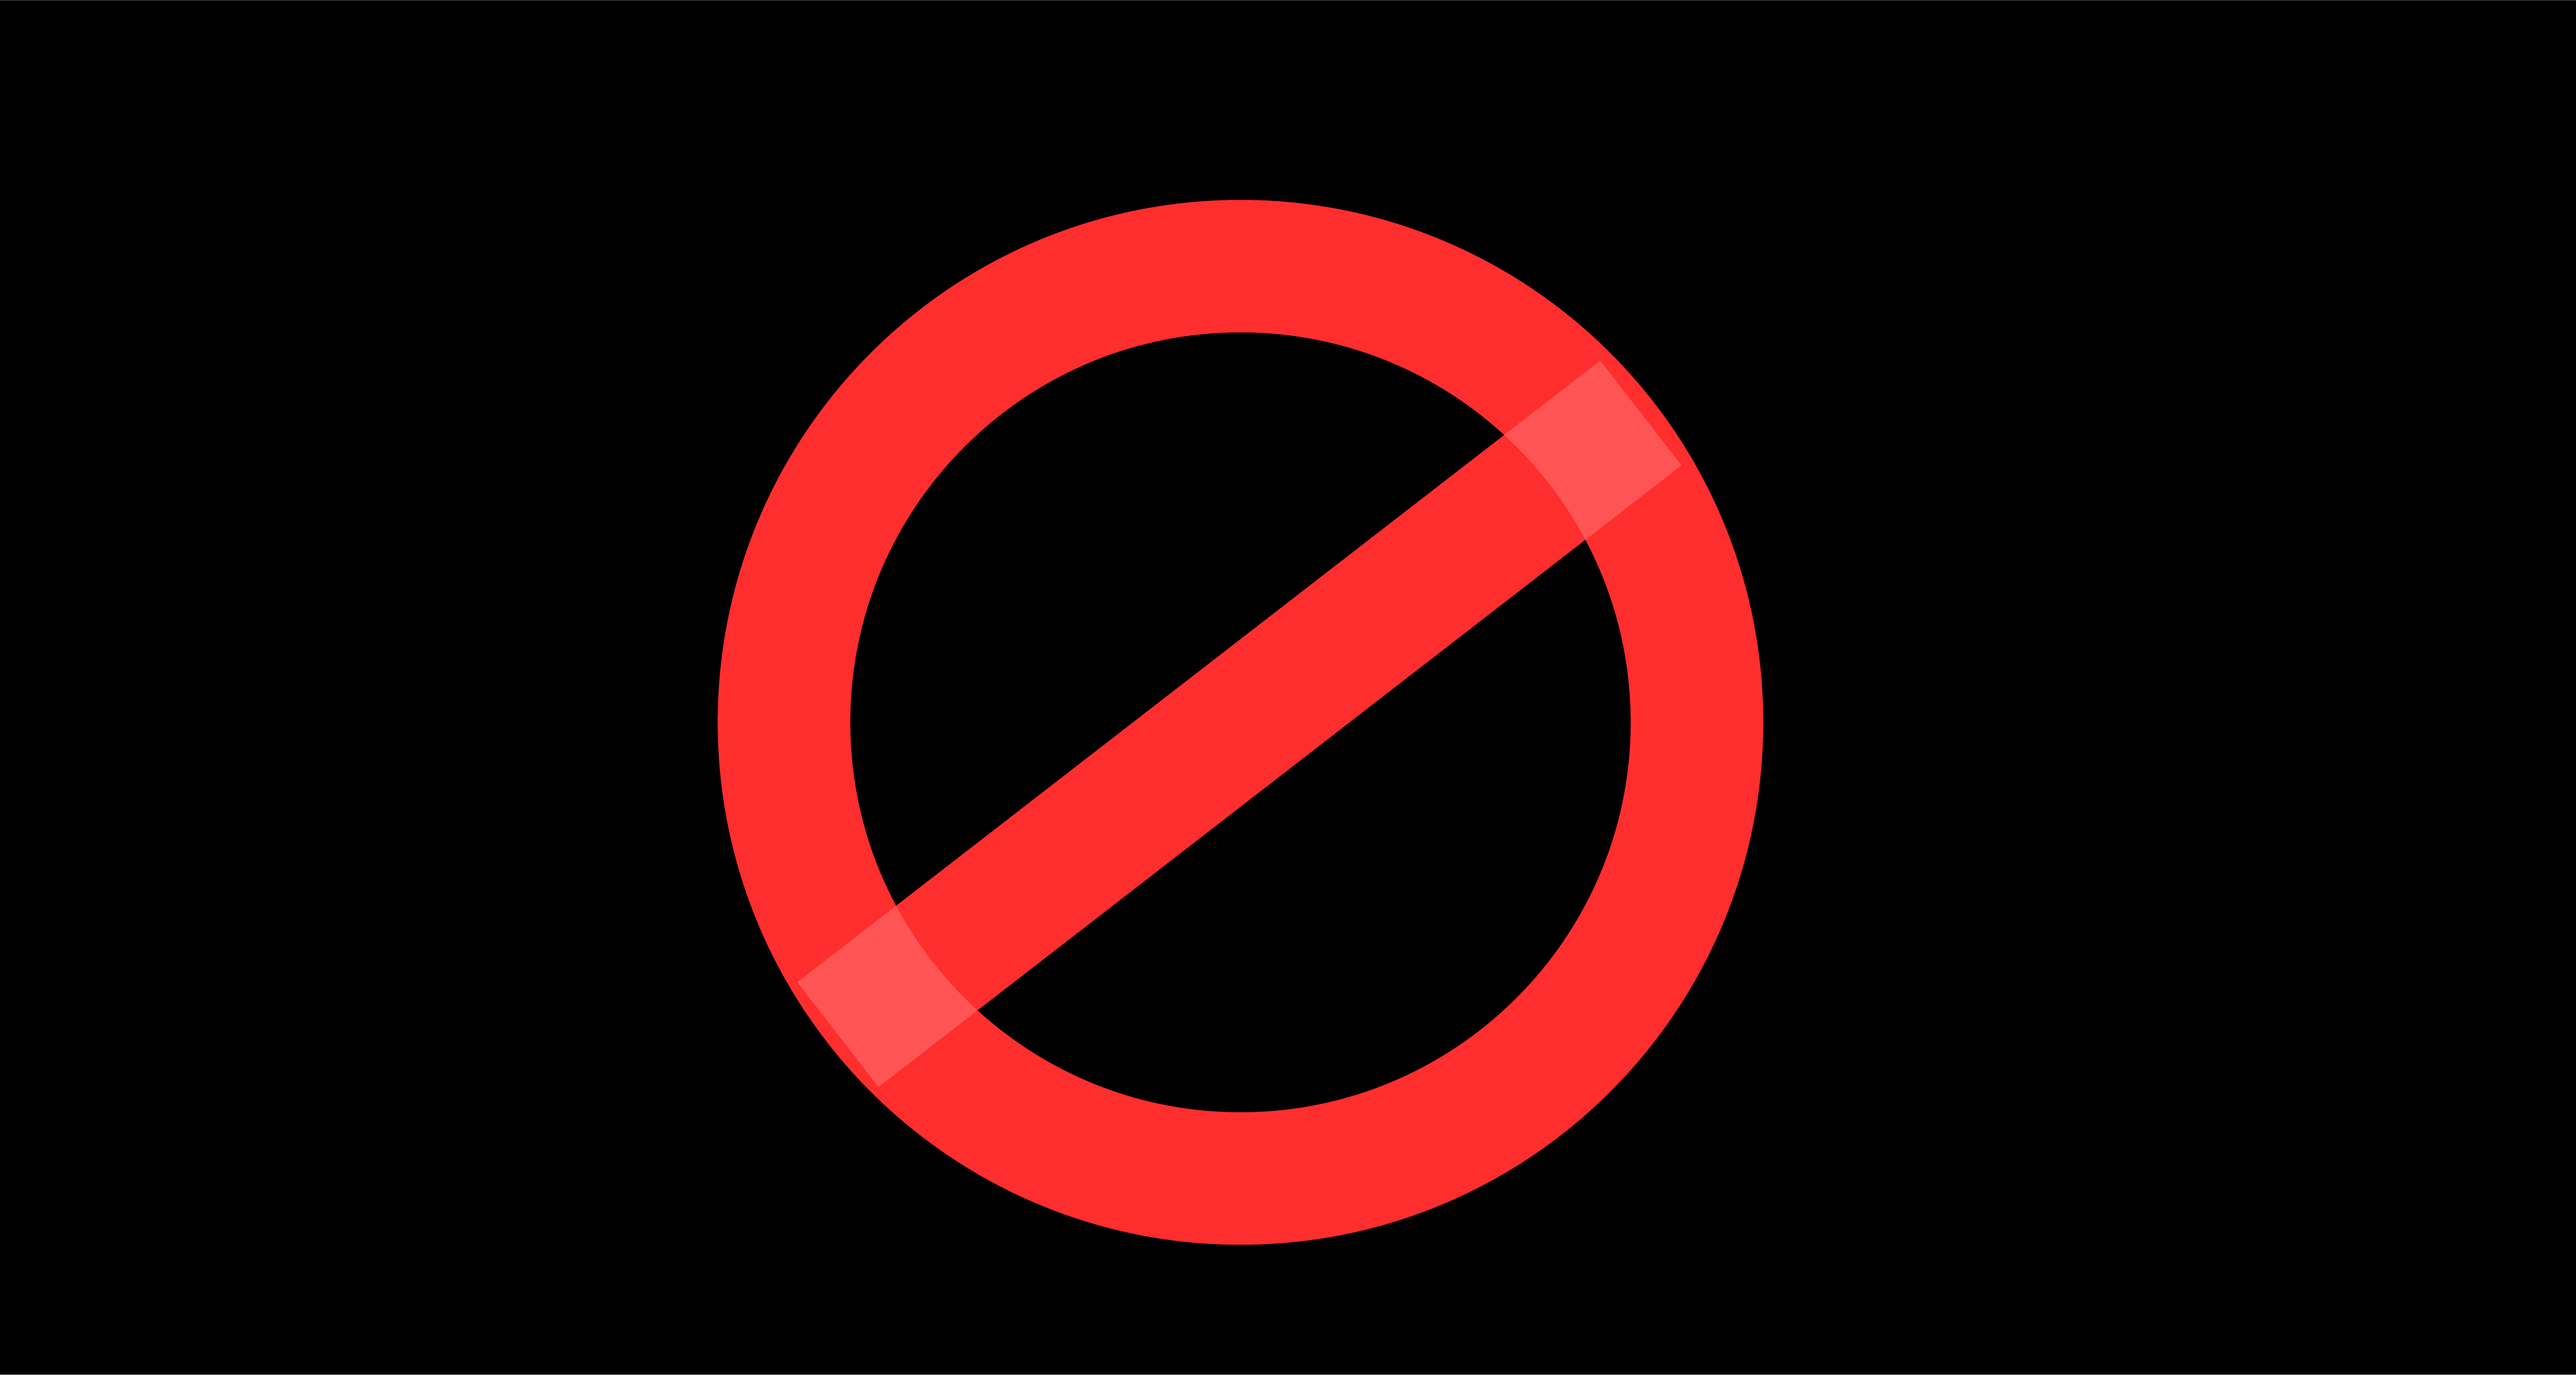
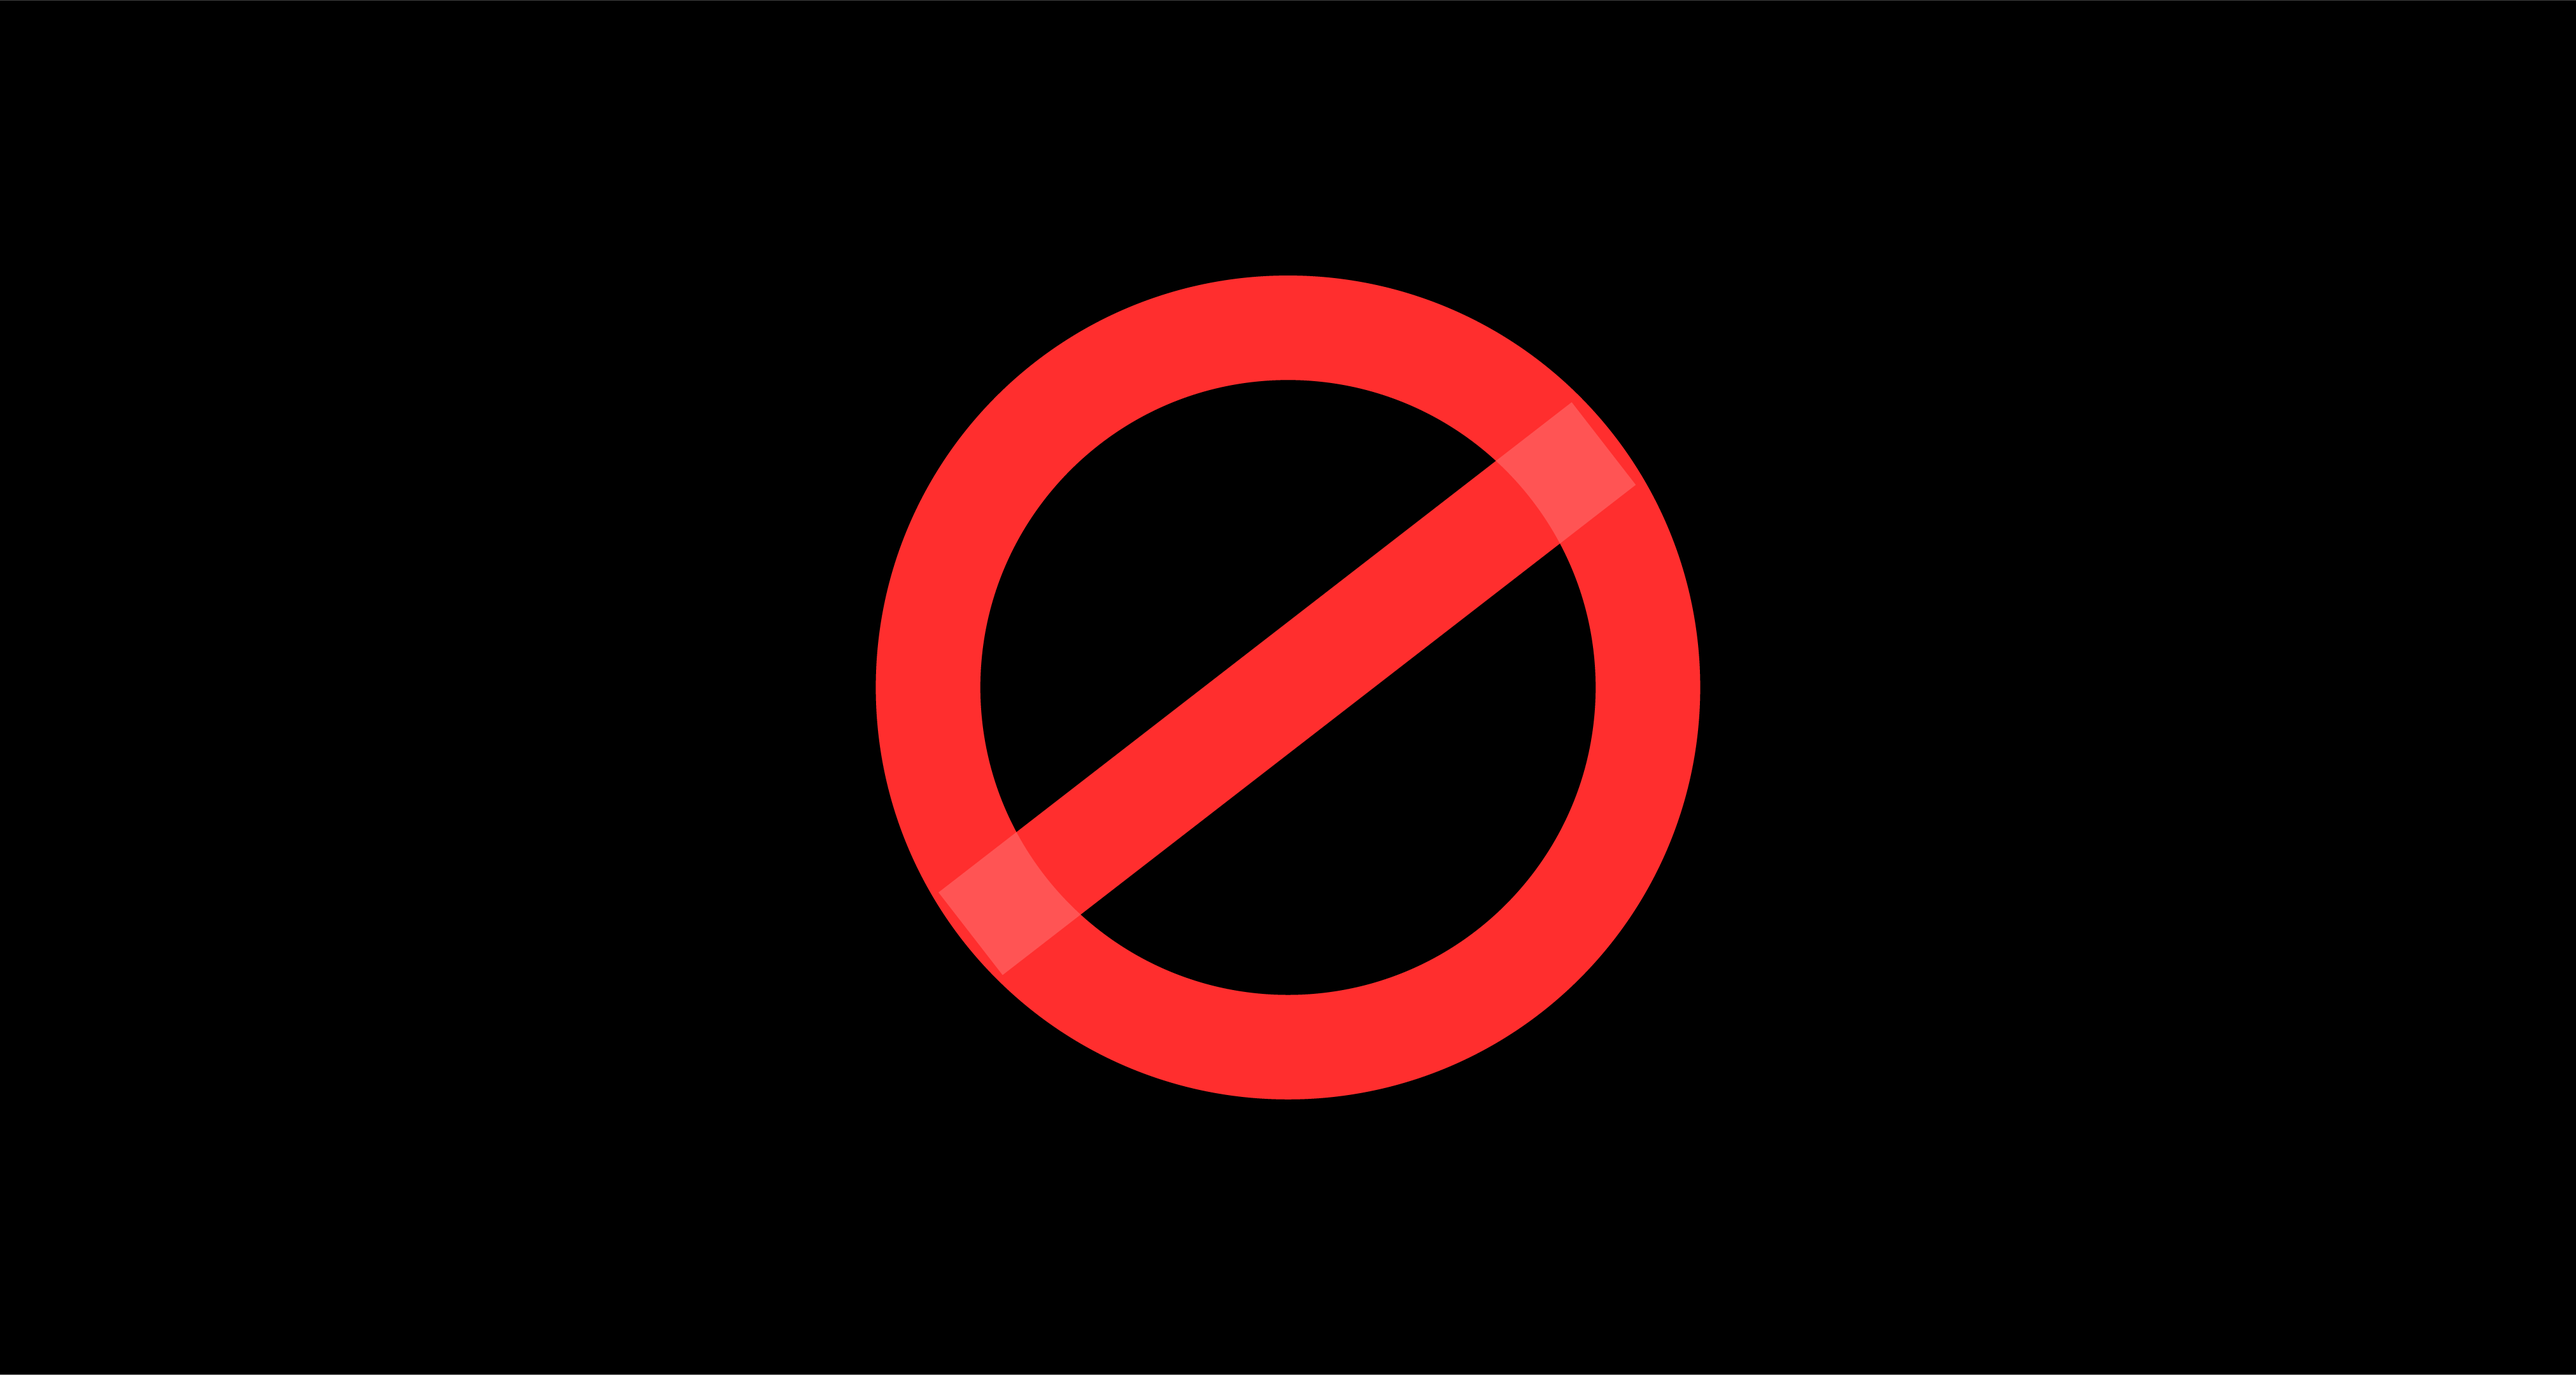
画像の切り替えを確実に実行

diff --git a/src/App.vue b/src/App.vue
@@ -31,7 +31,7 @@ const blueEffectList = ref<Effect[]>([
   },
   {
     index: 3,
-    name: 'Psychedelic effect',
+    name: 'Psychedelic',
     imageUrl: '/blue/psychedelic_effect.png',
   },
   {
@@ -80,8 +80,8 @@ const yellowEffectList = ref<Effect[]>([
   },
   {
     index: 3,
-    name: 'Yellow Effect 4',
-    imageUrl: 'https://via.placeholder.com/200x150/ffeb3b/000000?text=Yellow+4',
+    name: 'Psychedelic',
+    imageUrl: '/yellow/psychedelic_effect.png',
   },
   {
     index: 4,
@@ -129,7 +129,7 @@ const redEffectList = ref<Effect[]>([
   },
   {
     index: 3,
-    name: 'Psychedelic effect',
+    name: 'Psychedelic',
     imageUrl: '/red/psychedelic_effect.png',
   },
   {
